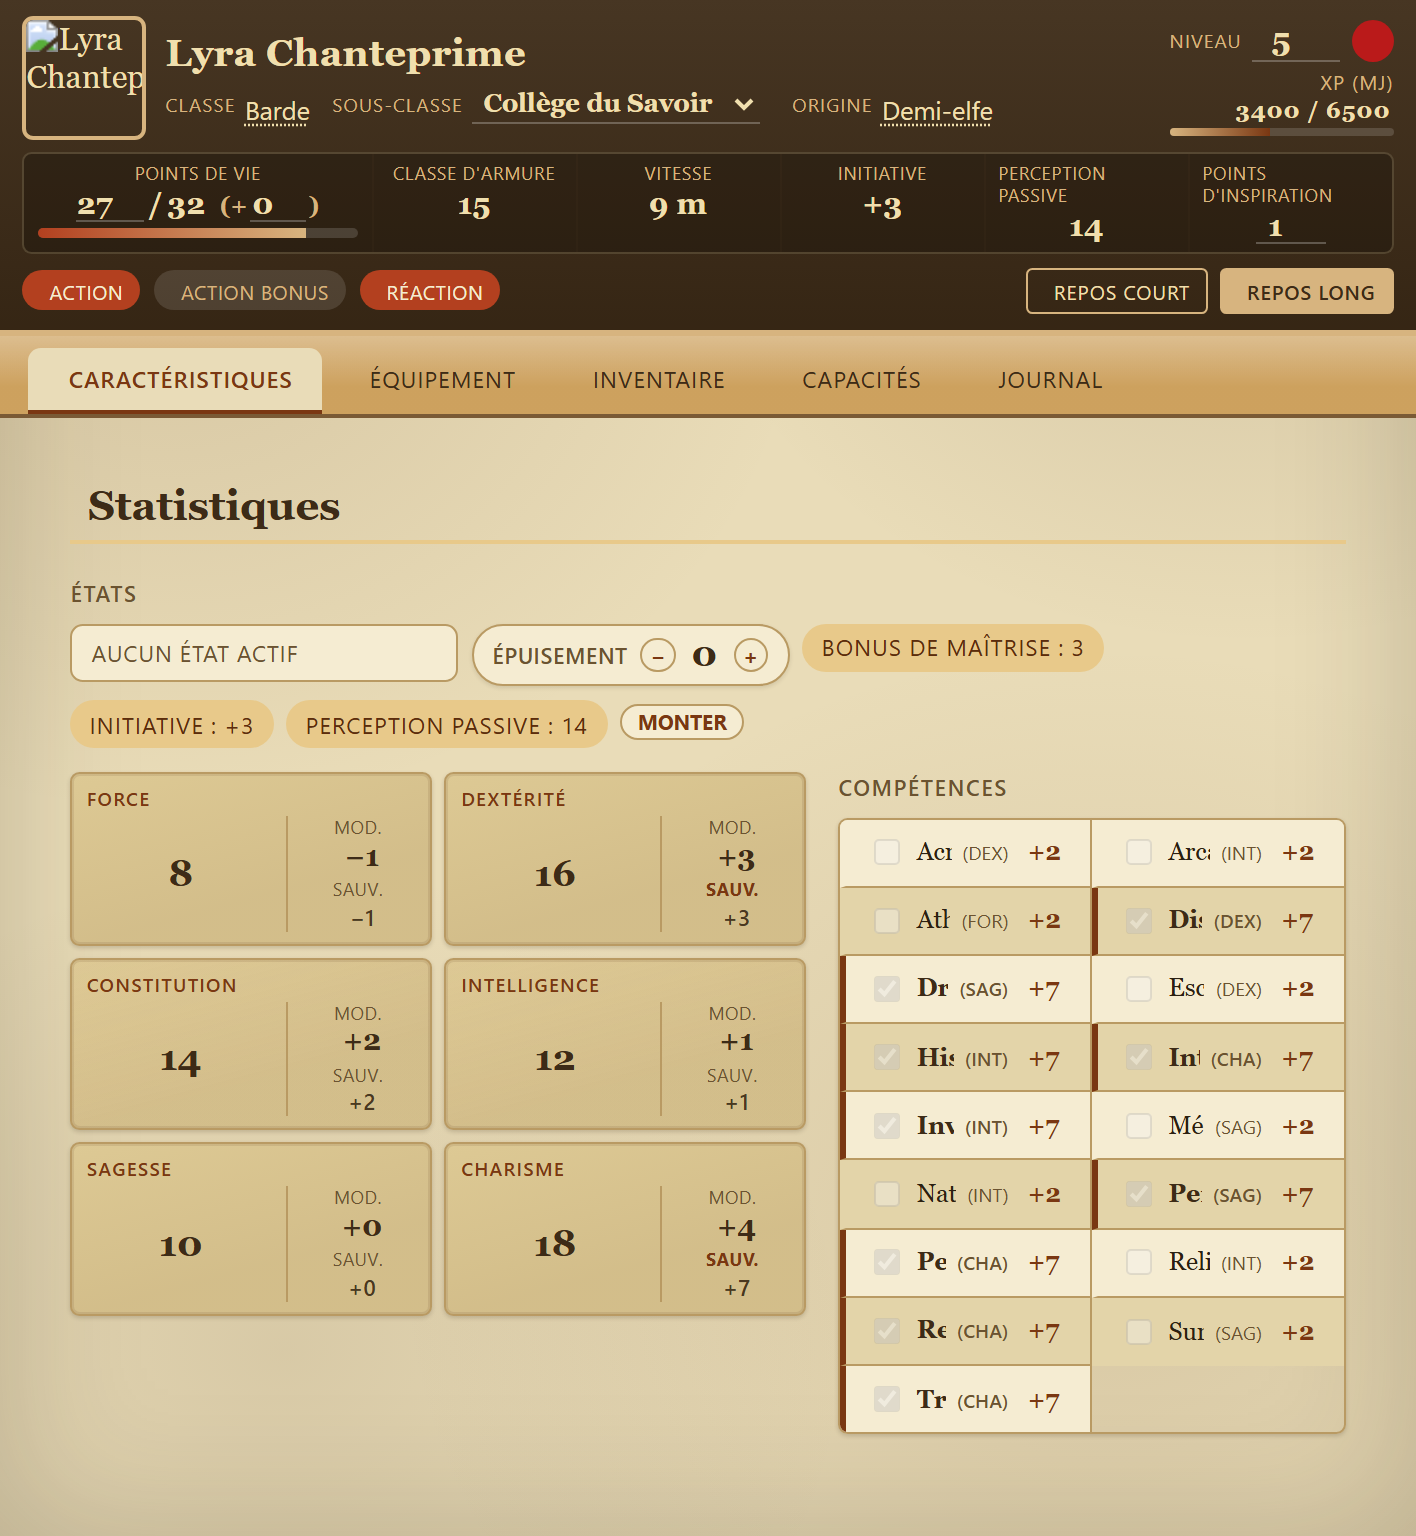
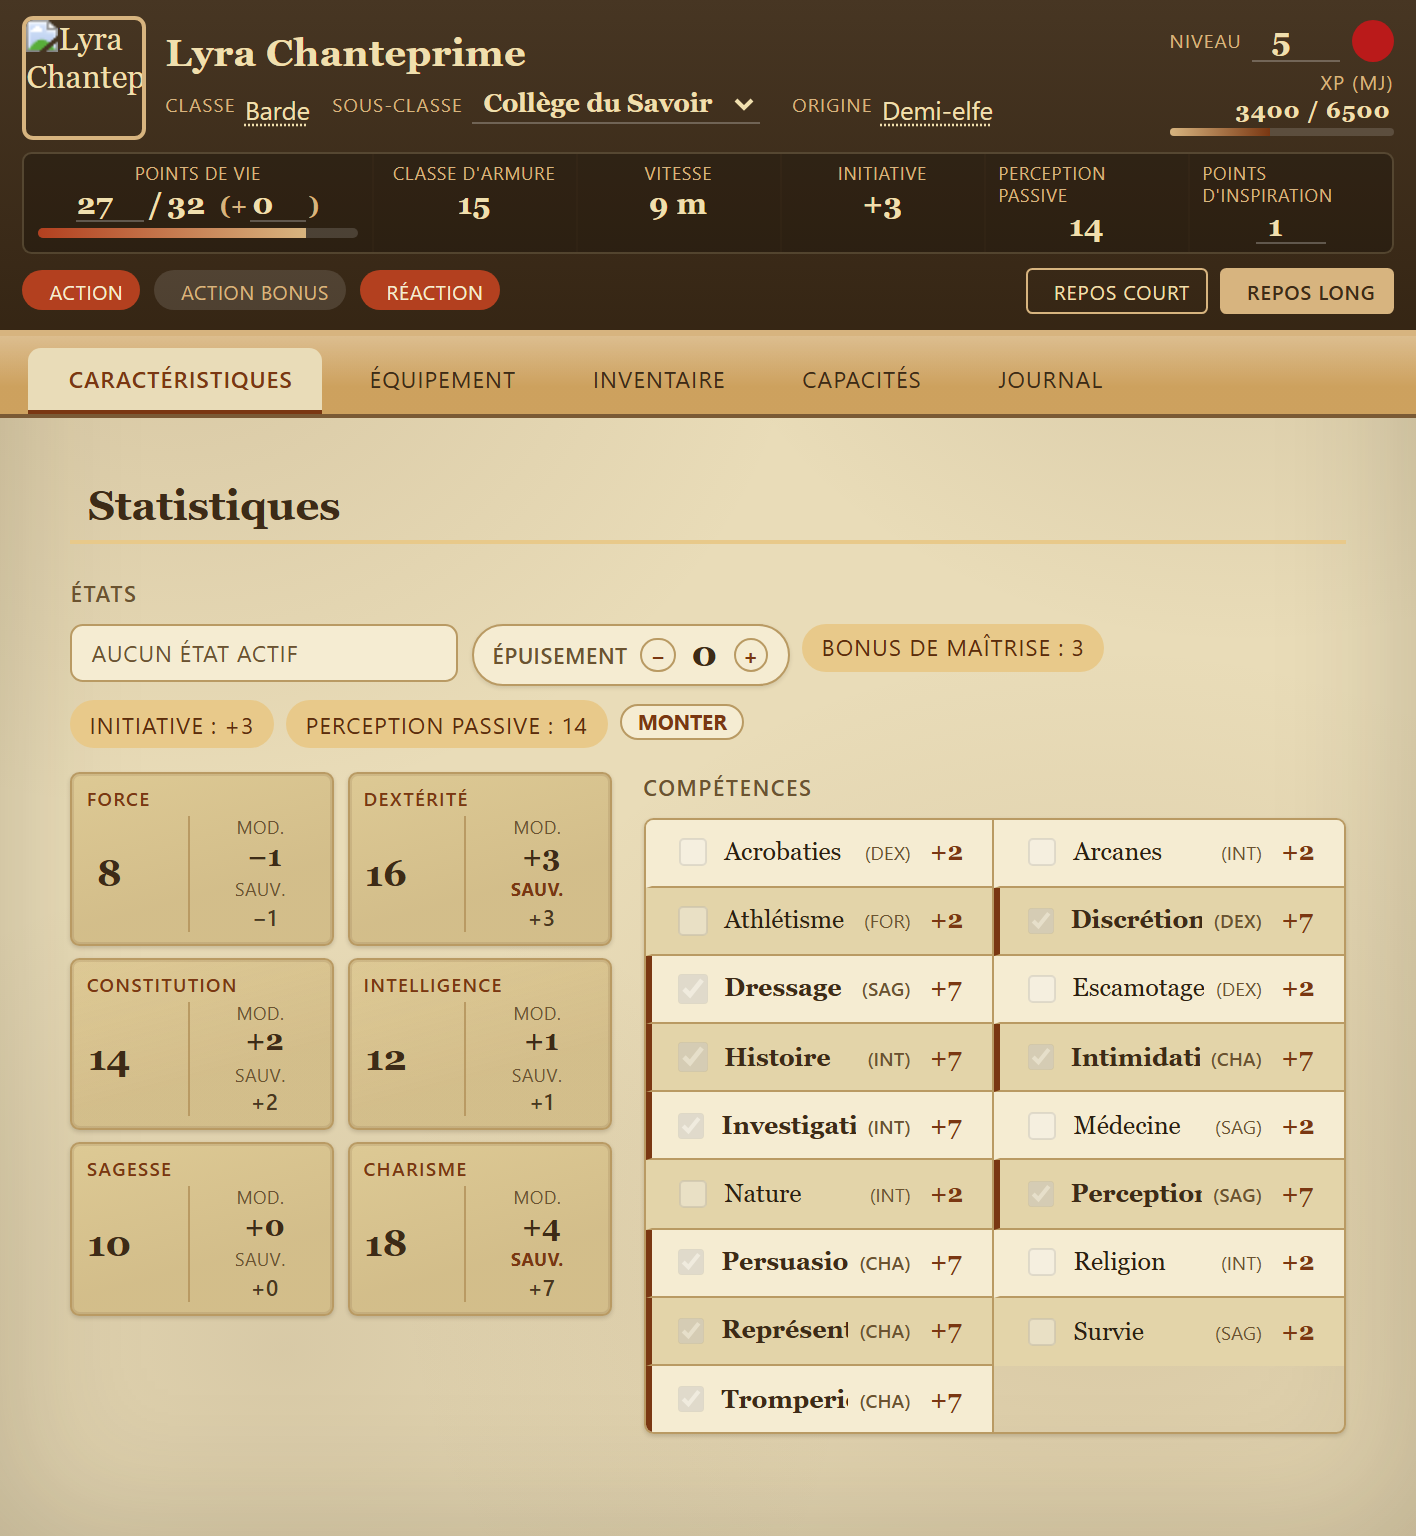
fix: cases de caracteristiques plus compactes (onglet Caracteristiques)
Retour utilisateur (images_test/cellule_stat_plus_petite.png) : les 6 cases
FOR/DEX/... prenaient trop de largeur — la valeur, centree dans `.ability-main`
en `flex: 1 1 auto`, gonflait chaque case. `.ability-main` ne grandit plus
(valeur a gauche, bloc MOD./SAUV. a droite, `justify-content: space-between`)
et `.abilities-column` se contente de ~284px au lieu de 368px, ce qui rend
aussi de la largeur a la liste des Competences sur une fenetre de 708px.

La case a cocher de maitrise de sauvegarde (session MJ) tient toujours dans le
bloc `.ability-side` : plus rien ne se dispute l'espace horizontal dans la case
(verifie en rendu reel MJ + Joueur, maquettes/fiche-708x768/reel-stats*).

Claude-Session: https://claude.ai/code/session_019qW42amh4ndw7THLq7hEVy

diff --git a/styles/dnd-custom-ai.css b/styles/dnd-custom-ai.css
@@ -1019,15 +1019,18 @@
 /* Grille 2 colonnes x 3 lignes plutôt qu'une pile verticale à 1 colonne (retour de test :
    les 6 cases ne tenaient plus toutes à l'écran sans défiler dès qu'une fenêtre de fiche assez
    basse, ex. 830px de haut) — divise par ~2 la hauteur totale nécessaire pour cette colonne.
-   Largeur de colonne relevée à 176px (retour de test suivant, cf. images_test/img.png) : à
-   150px, le bloc MOD./SAUV. de chaque case (cf. .ability-side plus bas) n'avait plus assez de
-   place pour la case à cocher de maîtrise de sauvegarde (session MJ) sans se chevaucher avec le
-   reste de la case. */
+   Retour de test (2026-09-04, images_test/cellule_stat_plus_petite.png) : les cases prenaient
+   trop de largeur (la valeur, centrée dans `.ability-main` en `flex: 1 1 auto`, gonflait la
+   case) — `.ability-main` ne grandit plus (valeur collée à gauche, bloc MOD./SAUV. collé à
+   droite) et cette colonne se contente désormais de ~300px, laissant plus de place aux
+   Compétences sur une fenêtre de 708px de large. Le bloc MOD./SAUV. (`.ability-side`) garde sa
+   largeur naturelle : la case à cocher de maîtrise de sauvegarde (session MJ) ne peut plus se
+   faire écraser puisque plus rien ne se dispute l'espace horizontal dans la case. */
 .dnd-custom-ai .abilities-column {
   display: grid;
-  grid-template-columns: repeat(2, minmax(176px, 1fr));
+  grid-template-columns: repeat(2, minmax(132px, 1fr));
   gap: 0.4rem;
-  flex: 0 0 368px;
+  flex: 0 1 284px;
 }
 
 .dnd-custom-ai .skills-column {
@@ -1071,11 +1074,12 @@
 .dnd-custom-ai .ability-card-row {
   display: flex;
   align-items: stretch;
+  justify-content: space-between;
   gap: 0.35rem;
 }
 
 .dnd-custom-ai .ability-main {
-  flex: 1 1 auto;
+  flex: 0 1 auto;
   display: flex;
   flex-direction: column;
   align-items: center;
